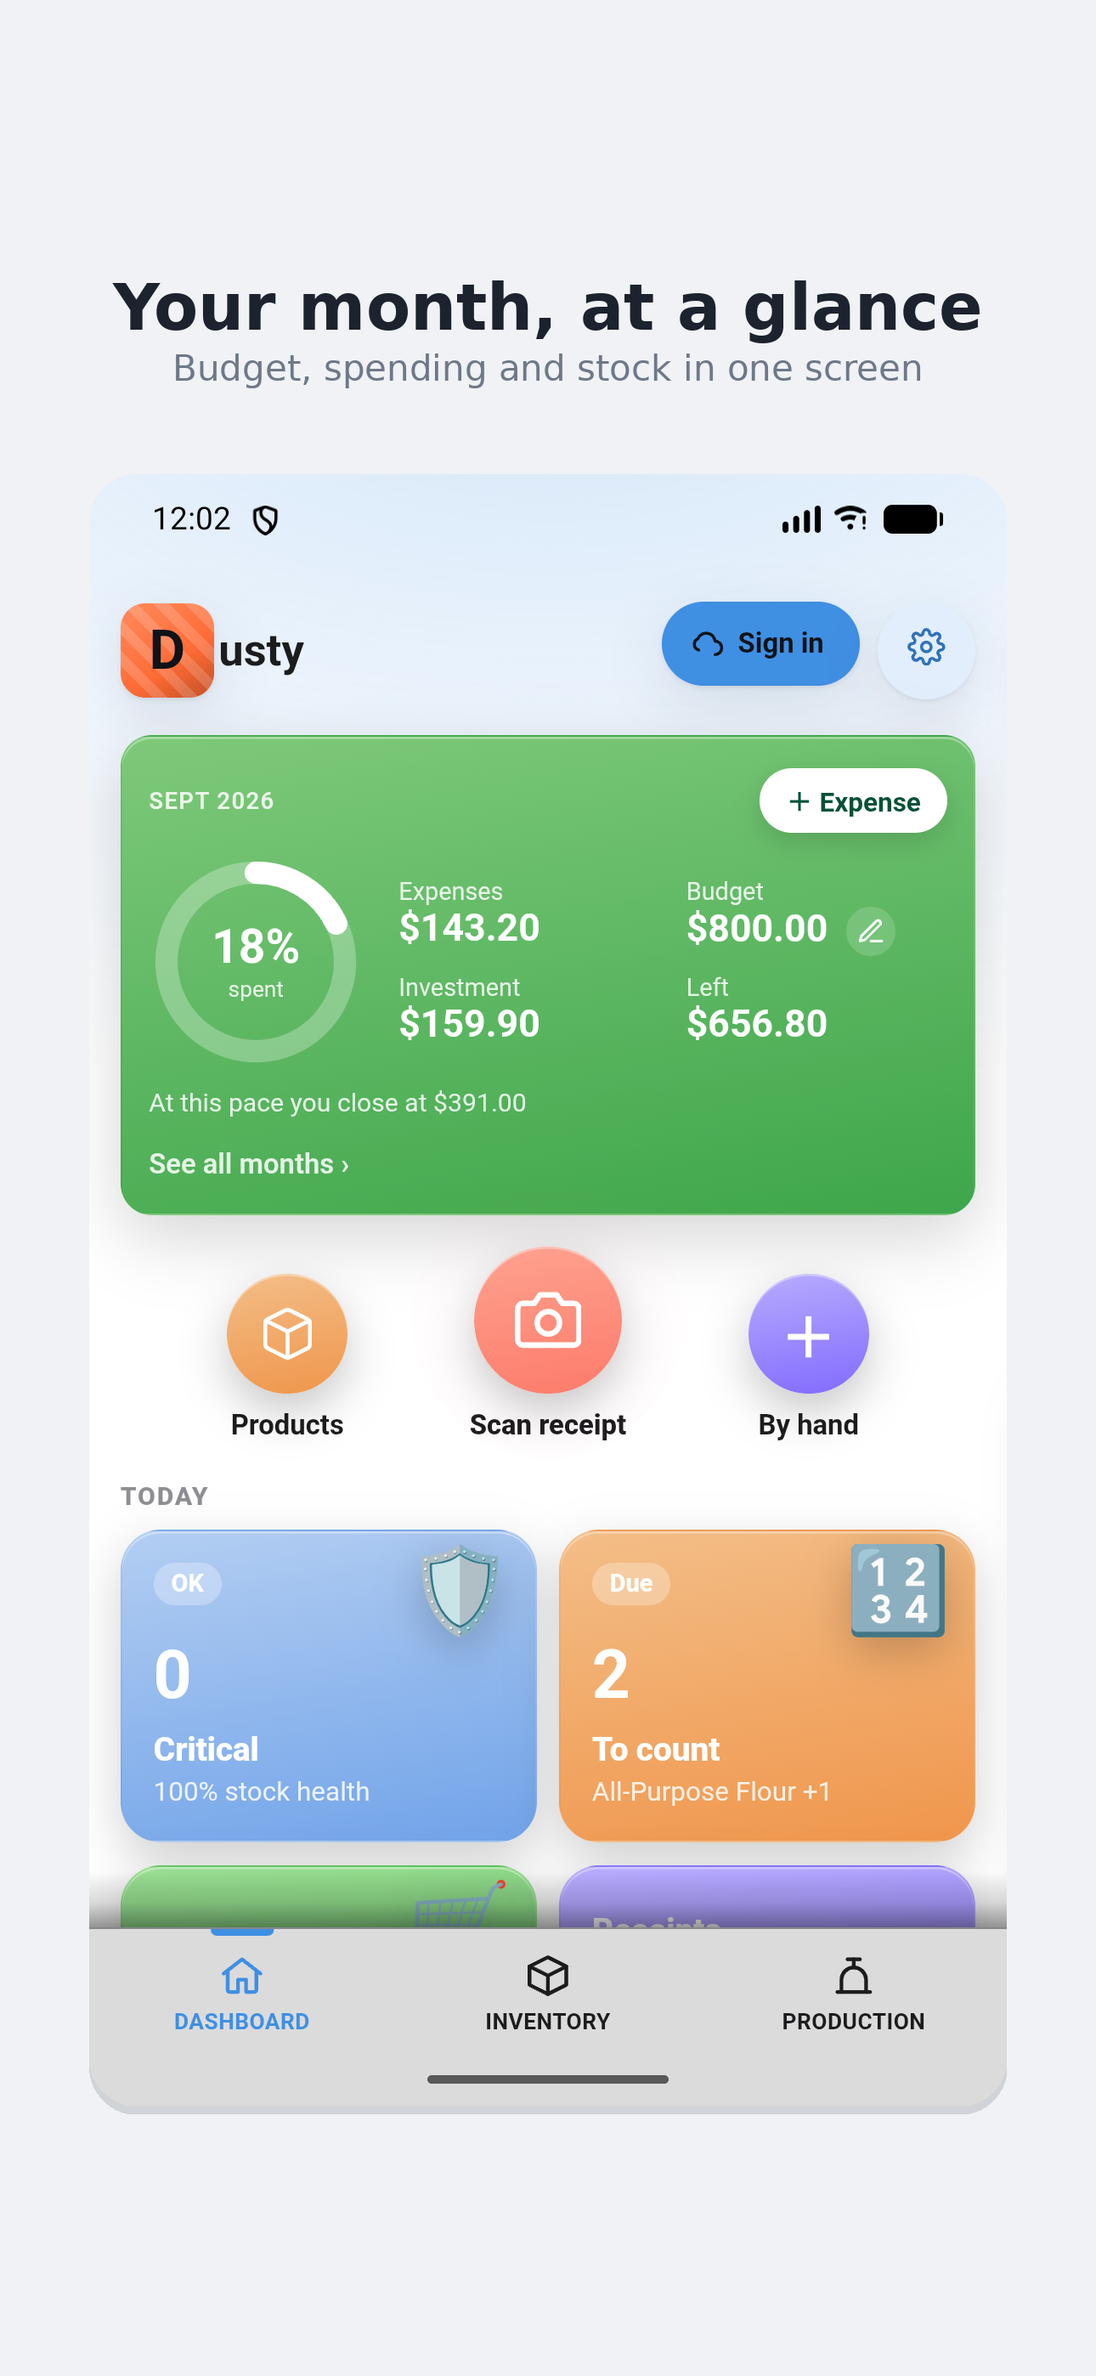
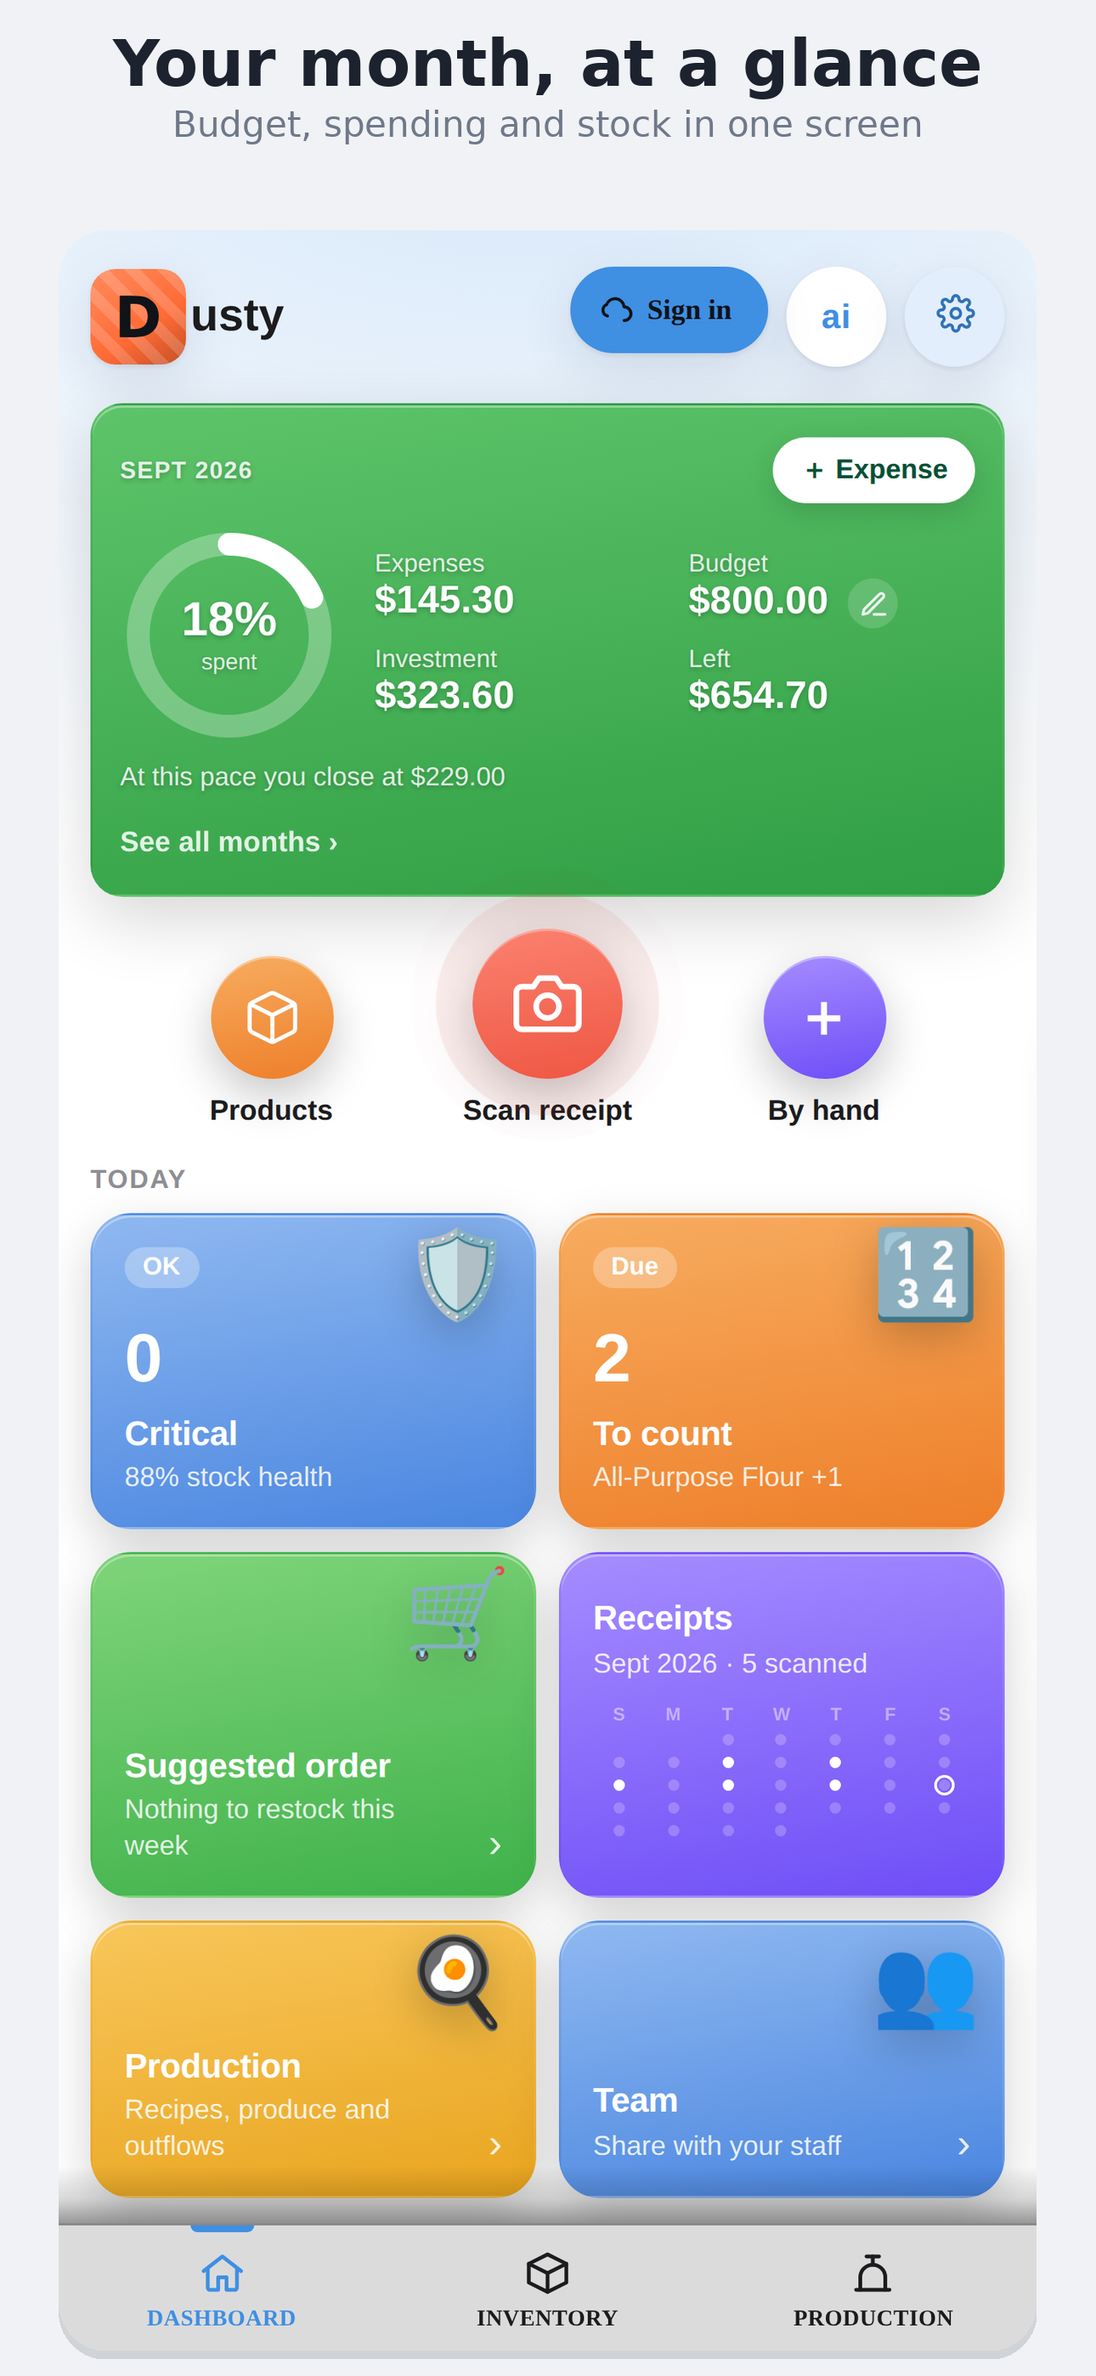
Capturas de App Store renderizadas a resolución nativa
Las anteriores partían de las capturas de Play, que son de 1080px de ancho: aun
sin agrandarlas ocupaban 1080 de los 1290 del lienzo y mostraban datos de otra
época del producto. Ahora se renderiza la app de verdad.

`scripts/capture-ios-screenshots.js` abre Dusty en Chromium con el tamaño lógico
de un iPhone Pro Max (430x932) a densidad 3x, que da exactamente 1290x2796 —
renderizados a esa resolución en vez de escalados hasta ella. Navega por la barra
de abajo usando data-tab, que es más estable que el texto de los botones (cambia
de idioma y va en mayúsculas por CSS).

Los datos son de una panadería inventada, inyectada en localStorage antes de que
la app arranque. Ajustarlos fue la mitad del trabajo y cada número está puesto
por una razón: el gasto del mes sale de los recibos y no de las compras
(spendSplitForMonth recorre receipts), así que sin recibos el dashboard mostraba
$0.00; los precios de venta en 0 dejaban un "Sale potential $0.00" arriba del
inventario; cuatro categorías de 1 y 3 productos dejaban huecos en la grilla de
dos columnas, y con dos de cuatro las filas cierran; y sin producciones
registradas el recap del mes decía "No outflows recorded in this period" justo
donde va el estado de resultados, que es lo más vendedor de esa pantalla.

Playwright queda fuera de package.json a propósito: pesa y solo sirve para esto.

Claude-Session: https://claude.ai/code/session_01QHYvS7ErrmfPLF5JLpFZV7

diff --git a/scripts/capture-ios-screenshots.js b/scripts/capture-ios-screenshots.js
@@ -1,0 +1,202 @@
+/* Captura las pantallas de Dusty a resolución nativa de iPhone Pro Max.
+ *
+ * Por qué existe: las capturas de la ficha de Play son de 1080px de ancho, y
+ * Apple pide 1290x2796. Agrandarlas pierde nitidez, y sacarlas del simulador
+ * exige tener la Mac delante. Acá se abre la app de verdad en Chromium con el
+ * tamaño lógico de un iPhone Pro Max (430x932) a densidad 3x, que da exactamente
+ * 1290x2796 de píxeles reales — la misma medida que Apple quiere, renderizada
+ * a esa resolución en vez de escalada hasta ella.
+ *
+ * Los datos son de demostración y se inyectan en localStorage antes de que la
+ * app arranque: una ficha con el inventario vacío no vende nada, y usar datos
+ * reales de alguien en la App Store no corresponde.
+ *
+ * Uso:
+ *   npm run build                       (genera www/)
+ *   cd www && python3 -m http.server 8787 &
+ *   node scripts/capture-ios-screenshots.js
+ */
+const { chromium } = require('playwright');
+const path = require('path');
+const fs = require('fs');
+
+const URL_BASE = process.env.DUSTY_URL || 'http://localhost:8787/index.html';
+const DESTINO = 'store-screenshots/ios/raw';
+// Playwright trae su propio Chromium, pero en este entorno la versión instalada
+// no coincide con la que el paquete espera; con CHROMIUM_PATH se apunta a la que
+// sí está. Sin la variable se usa el Chromium que maneja Playwright.
+const CHROMIUM = process.env.CHROMIUM_PATH || undefined;
+
+const hoy = new Date();
+const iso = (d) => d.toISOString().slice(0, 10);
+const diasAtras = (n) => iso(new Date(hoy.getTime() - n * 86400000));
+
+const CAT = { horno: 'cat_baking', cocina: 'cat_kitchen' };
+
+const inventory = [
+  { id:'i1', name:'All-Purpose Flour', unit:'lb', costPerUnit:0.52, qtyOnHand:44, stockFullRef:50, salePrice:1.2, categoryId:CAT.horno,    supplier:'Sysco', sku:'FLR-50' },
+  { id:'i2', name:'Brown Sugar',       unit:'lb', costPerUnit:0.88, qtyOnHand:26, stockFullRef:30, salePrice:1.95, categoryId:CAT.horno,    supplier:'Sysco', sku:'SGR-30' },
+  { id:'i3', name:'Butter',            unit:'lb', costPerUnit:3.40, qtyOnHand:19, stockFullRef:24, salePrice:7.5, categoryId:CAT.horno,    supplier:'Dairy Co', sku:'BTR-24' },
+  { id:'i4', name:'Whole Milk',        unit:'gal',costPerUnit:3.95, qtyOnHand:9,  stockFullRef:12, salePrice:6.9, categoryId:CAT.cocina,   supplier:'Dairy Co', sku:'MLK-12' },
+  { id:'i5', name:'Chicken Breast',    unit:'lb', costPerUnit:2.85, qtyOnHand:40, stockFullRef:48, salePrice:6.4, categoryId:CAT.cocina,   supplier:'Restaurant Depot', sku:'CHK-48' },
+  { id:'i6', name:'Eggs',              unit:'unidad', costPerUnit:0.22, qtyOnHand:300, stockFullRef:360, salePrice:0.55, categoryId:CAT.horno,   supplier:'Dairy Co', sku:'EGG-360' },
+  { id:'i7', name:'Paper Towels 12pk', unit:'caja', costPerUnit:18.90, qtyOnHand:2, stockFullRef:8, salePrice:34.9, categoryId:CAT.cocina,   supplier:'Costco', sku:'PPR-12' },
+  { id:'i8', name:'Olive Oil',         unit:'gal',costPerUnit:22.50, qtyOnHand:5,  stockFullRef:6,  salePrice:44.0, categoryId:CAT.cocina,  supplier:'Sysco', sku:'OIL-6' },
+];
+
+// Un precio que subió: es lo que dispara el aviso de cambio de precio, o sea una
+// de las cosas que la ficha quiere mostrar funcionando.
+inventory[0].lastPriceChangePct = 6.2;
+inventory[0].prevCostPerUnit = 0.49;
+
+const purchases = [
+  { id:'p1', ingId:'i1', qty:50, unit:'lb',  totalPrice:26.00, supplier:'Sysco',             date:diasAtras(2) },
+  { id:'p2', ingId:'i5', qty:48, unit:'lb',  totalPrice:136.80,supplier:'Restaurant Depot',  date:diasAtras(4) },
+  { id:'p3', ingId:'i3', qty:24, unit:'lb',  totalPrice:81.60, supplier:'Dairy Co',          date:diasAtras(9) },
+  { id:'p4', ingId:'i6', qty:360,unit:'unidad', totalPrice:79.20, supplier:'Dairy Co',       date:diasAtras(11) },
+  { id:'p5', ingId:'i8', qty:6,  unit:'gal', totalPrice:135.00,supplier:'Sysco',             date:diasAtras(17) },
+];
+
+const linea = (ingId, rawName, qty, unit, totalPrice) => ({ ingId, rawName, qty, unit, totalPrice });
+
+const receipts = [
+  { id:'rc1', date:diasAtras(2),  supplier:'Sysco',            total:26.00,  itemCount:1, createdAt:diasAtras(2),
+    appliedItems:[ linea('i1','All-Purpose Flour',50,'lb',26.00) ] },
+  { id:'rc2', date:diasAtras(4),  supplier:'Restaurant Depot', total:136.80, itemCount:1, createdAt:diasAtras(4),
+    appliedItems:[ linea('i5','Chicken Breast',48,'lb',136.80) ] },
+  { id:'rc3', date:diasAtras(6),  supplier:'City Power',       total:145.30, itemCount:1, createdAt:diasAtras(6),
+    manual:true, manualKind:'expense', appliedItems:[] },
+  { id:'rc4', date:diasAtras(9),  supplier:'Dairy Co',         total:81.60,  itemCount:1, createdAt:diasAtras(9),
+    appliedItems:[ linea('i3','Butter',24,'lb',81.60) ] },
+  { id:'rc5', date:diasAtras(11), supplier:'Dairy Co',         total:79.20,  itemCount:1, createdAt:diasAtras(11),
+    appliedItems:[ linea('i6','Eggs',360,'unidad',79.20) ] },
+];
+
+const recipes = [
+  { id:'r1', name:'Croissant (dozen)', salePrice:42, components:[{ingId:'i1', qty:3},{ingId:'i3', qty:1.5},{ingId:'i6', qty:6}] },
+  { id:'r2', name:'Chicken Pot Pie',   salePrice:14, components:[{ingId:'i5', qty:0.6},{ingId:'i1', qty:0.4},{ingId:'i4', qty:0.2}] },
+  { id:'r3', name:'Banana Bread',      salePrice:9,  components:[{ingId:'i1', qty:1.2},{ingId:'i2', qty:0.5},{ingId:'i6', qty:2}] },
+  { id:'r4', name:'Butter Cookies (24)', salePrice:18, components:[{ingId:'i1', qty:2},{ingId:'i2', qty:0.8},{ingId:'i3', qty:1}] },
+];
+
+// Producciones ya registradas. Sin esto el recap del mes muestra "No outflows
+// recorded in this period" donde deberían ir las ganancias estimadas: el
+// apartado más vendedor de esa pantalla quedaba vacío. Cada corrida descuenta
+// insumos y deja precio y costo del momento, que es de donde salen las
+// estimaciones (ver periodSpendSplit en app-03).
+const outflows = [
+  { id:'o1', type:'production', recipeId:'r1', recipeName:'Croissant (dozen)', count:14,
+    items:[{ ingId:'i1', ingName:'All-Purpose Flour', qty:42, unit:'lb', costAt:0.52 },
+           { ingId:'i3', ingName:'Butter', qty:21, unit:'lb', costAt:3.40 },
+           { ingId:'i6', ingName:'Eggs', qty:84, unit:'unidad', costAt:0.22 }],
+    saleTotal:588, costTotal:112.32, date:diasAtras(3), createdAt:diasAtras(3) },
+  { id:'o2', type:'production', recipeId:'r3', recipeName:'Banana Bread', count:30,
+    items:[{ ingId:'i1', ingName:'All-Purpose Flour', qty:36, unit:'lb', costAt:0.52 },
+           { ingId:'i2', ingName:'Brown Sugar', qty:15, unit:'lb', costAt:0.88 },
+           { ingId:'i6', ingName:'Eggs', qty:60, unit:'unidad', costAt:0.22 }],
+    saleTotal:270, costTotal:45.12, date:diasAtras(6), createdAt:diasAtras(6) },
+  { id:'o3', type:'production', recipeId:'r4', recipeName:'Butter Cookies (24)', count:18,
+    items:[{ ingId:'i1', ingName:'All-Purpose Flour', qty:36, unit:'lb', costAt:0.52 },
+           { ingId:'i2', ingName:'Brown Sugar', qty:14.4, unit:'lb', costAt:0.88 },
+           { ingId:'i3', ingName:'Butter', qty:18, unit:'lb', costAt:3.40 }],
+    saleTotal:324, costTotal:92.59, date:diasAtras(10), createdAt:diasAtras(10) },
+];
+
+const ESTADO = {
+  inventory, purchases, recipes, receipts,
+  aliasMap: {}, priceAlertThreshold: 5,
+  cycleCountEnabled: true, cycleCountPct: 20, cycleCountIntervalDays: 7,
+  cycleCountLastDate: diasAtras(7), cycleCountCursor: 0,
+  deletedInventoryIds: [], deletedReceiptIds: [], deletedPurchaseIds: [],
+  businessName: 'Bluebird Bakery', monthlyBudget: 800, budgetMeta: {},
+  bizProfile: {}, profitsVisibleToMembers: true,
+  categories: [
+    { id:CAT.horno,  name:'Baking' },
+    { id:CAT.cocina, name:'Kitchen' },
+  ],
+  expenseCategories: [], calNotes: [], deletedCalNoteIds: [],
+  outflows, outflowArchive: {}, deletedRecipeIds: [],
+  deletedAssetIds: [], deletedMaintIds: [], deletedCatalogIds: [],
+  deletedClientIds: [], deletedMaintLogIds: [],
+};
+
+// La barra de abajo marca cada botón con data-tab (ver bottomNav en app-04), que
+// es más estable que el texto: la etiqueta cambia de idioma y va en mayúsculas
+// por CSS, así que buscarla por texto falla de maneras poco obvias. Los dos
+// últimos lugares de la barra son configurables (inventario/equipo y
+// producción/recibos), así que se captura lo que de verdad esté puesto.
+const PANTALLAS = [
+  { archivo: 'dashboard',  tab: 'dashboard' },
+  { archivo: 'inventory',  tab: 'inventario', desplazar: 210 },
+  { archivo: 'production', tab: 'produccion' },
+  { archivo: 'receipts',   tab: 'recibos' },
+];
+
+(async () => {
+  fs.mkdirSync(DESTINO, { recursive: true });
+  const browser = await chromium.launch(CHROMIUM ? { executablePath: CHROMIUM } : {});
+  const ctx = await browser.newContext({
+    viewport: { width: 430, height: 932 },   // tamaño lógico de un iPhone Pro Max
+    deviceScaleFactor: 3,                     // 430*3 x 932*3 = 1290x2796
+    isMobile: true, hasTouch: true, locale: 'en-US',
+  });
+  const page = await ctx.newPage();
+
+  await page.addInitScript((estado) => {
+    localStorage.setItem('patron_lang', 'en');
+    localStorage.setItem('patron_onboarded', '1');
+    localStorage.setItem('patron_data_v1', JSON.stringify(estado));
+  }, ESTADO);
+
+  await page.goto(URL_BASE, { waitUntil: 'networkidle' });
+  await page.waitForTimeout(2500);
+
+  for (const { archivo, tab, desplazar } of PANTALLAS) {
+    const boton = page.locator(`.bottom-nav-item[data-tab="${tab}"]`);
+    if (await boton.count() === 0) {
+      console.log(`(sin pestaña "${tab}" en esta configuración — se saltea)`);
+      continue;
+    }
+    await boton.first().click();
+    await page.waitForTimeout(1200);
+    await page.evaluate(() => window.scrollTo({ top: 0 }));
+    await page.waitForTimeout(400);
+    if (desplazar) {
+      await page.evaluate((y) => window.scrollTo({ top: y }), desplazar);
+      await page.waitForTimeout(600);
+    }
+    const salida = path.join(DESTINO, archivo + '.png');
+    await page.screenshot({ path: salida });
+    console.log(salida);
+  }
+
+  // Resumen del mes: no está en la barra de abajo, se entra por el enlace de la
+  // tarjeta de presupuesto en el dashboard.
+  const dash = page.locator('.bottom-nav-item[data-tab="dashboard"]');
+  if (await dash.count()) {
+    await dash.first().click();
+    await page.waitForTimeout(1000);
+    const verMeses = page.locator('text=See all months').first();
+    if (await verMeses.count()) {
+      await verMeses.click();
+      await page.waitForTimeout(1500);
+      // "See all months" abre un diálogo sobre el dashboard en penumbra, que como
+      // captura de tienda se lee a medias. El recap del mes que hay detrás de ese
+      // botón es una pantalla entera y cuenta mejor la misma idea.
+      const recap = page.locator('text=See month recap').first();
+      if (await recap.count()) {
+        await recap.click();
+        await page.waitForTimeout(1800);
+        await page.evaluate(() => window.scrollTo({ top: 0 }));
+        await page.waitForTimeout(400);
+      }
+      const salida = path.join(DESTINO, 'reports.png');
+      await page.screenshot({ path: salida });
+      console.log(salida);
+    } else {
+      console.log('(no se encontró "See all months" — se saltea reportes)');
+    }
+  }
+
+  await browser.close();
+})();

diff --git a/scripts/build-ios-screenshots.py b/scripts/build-ios-screenshots.py
@@ -23,7 +23,7 @@ ANCHO, ALTO = 1290, 2796
 FONDO = (240, 242, 245)          # el mismo del splash nativo
 TINTA = (28, 34, 46)
 TINTA_SUAVE = (110, 120, 136)
-ORIGEN = 'store-screenshots/play'
+ORIGEN = 'store-screenshots/ios/raw'
 DESTINO = 'store-screenshots/ios'
 
 # Las frases van en inglés porque la UI de estas capturas está en inglés — una
@@ -31,11 +31,10 @@ DESTINO = 'store-screenshots/ios'
 # localización en español hay que sacar capturas con la app en español y volver
 # a correr esto con las frases traducidas.
 CAPTURAS = [
-    ('02-dashboard.png',            'Your month, at a glance',   'Budget, spending and stock in one screen'),
-    ('03-inventory.png',            'Stock that counts itself',  'Every receipt updates what you have'),
-    ('04-month-recap-reports.png',  'Know before it hurts',      'Price jumps and overspending, flagged early'),
-    ('05-production.png',           'From ingredients to plates','Recipes discount stock as you produce'),
-    ('01-welcome.png',              'Set up in seconds',         'No spreadsheets, no manual typing'),
+    ('dashboard.png',  'Your month, at a glance',  'Budget, spending and stock in one screen'),
+    ('inventory.png',  'Stock that counts itself', 'Every receipt updates what you have'),
+    ('reports.png',    'Know if you made money',   'Revenue, costs and margin, worked out for you'),
+    ('production.png', 'Recipes that discount stock', 'Log a batch, ingredients come off by themselves'),
 ]
 
 def fuente(tam, negrita=False):
@@ -60,17 +59,18 @@ def armar(nombre_origen, titulo, bajada, salida):
     draw = ImageDraw.Draw(lienzo)
 
 
-    # NUNCA se agranda la captura. El lienzo tiene 1290 de ancho y el original
-    # 1080, así que entra tal cual: estirarlo al ancho disponible sería un 11% de
-    # agrandamiento y perder nitidez por nada, cuando lo que sobra es lienzo, no
-    # imagen. Solo se achica si alguna vez entra una captura más ancha que el
-    # lienzo (por ejemplo, sacada de un simulador Pro Max).
-    margen_minimo = 45
-    ancho_maximo = ANCHO - margen_minimo * 2
-    if captura.width > ancho_maximo:
-        escala = ancho_maximo / captura.width
+    # NUNCA se agranda la captura: agrandar inventa píxeles y se nota. Las de
+    # capture-ios-screenshots.js ya vienen a 1290x2796, o sea el lienzo entero, así
+    # que hay que achicarlas para que entre el texto — achicar sí es seguro, cada
+    # píxel del resultado sale de varios del original. Una captura más chica que el
+    # ancho disponible se deja como está.
+    ALTO_TEXTO = 92 + 54 + 95
+    ancho_maximo = ANCHO - 45 * 2
+    alto_maximo = ALTO - ALTO_TEXTO - 60
+    escala = min(ancho_maximo / captura.width, alto_maximo / captura.height, 1.0)
+    if escala < 1.0:
         captura = captura.resize(
-            (ancho_maximo, int(captura.height * escala)), Image.LANCZOS)
+            (int(captura.width * escala), int(captura.height * escala)), Image.LANCZOS)
     ancho_captura, alto_captura = captura.size
     margen = (ANCHO - ancho_captura) // 2
     captura = esquinas_redondeadas(captura, 56)
@@ -103,6 +103,6 @@ for i, (archivo, titulo, bajada) in enumerate(CAPTURAS, start=1):
     if not os.path.exists(origen):
         print('falta %s — se saltea' % origen)
         continue
-    salida = os.path.join(DESTINO, '%02d-%s' % (i, archivo.split('-', 1)[-1]))
+    salida = os.path.join(DESTINO, '%02d-%s' % (i, archivo))
     medida = armar(archivo, titulo, bajada, salida)
     print('%s  %dx%d' % (salida, medida[0], medida[1]))

diff --git a/PUBLICAR-DUSTY.md b/PUBLICAR-DUSTY.md
@@ -401,7 +401,33 @@ solo se llega ahí si falla el PDF, y si devuelve `null` corta sin romper nada.
 Todo lo de arriba ya está. Esto es lo que falta para apretar "Submit for Review",
 en el orden en que hay que hacerlo — cada paso desbloquea al siguiente.
 
-**1. Capturas.** Se pueden sacar del simulador, no hace falta un iPhone real.
+**1. Capturas.** ✅ HECHO — están en `store-screenshots/ios/`, a 1290x2796.
+
+Se generan sin tocar la Mac. `scripts/capture-ios-screenshots.js` abre la app de
+verdad en Chromium con el tamaño lógico de un iPhone Pro Max (430x932) a densidad
+3x, que da exactamente los 1290x2796 que Apple pide — renderizados a esa
+resolución, no escalados hasta ella. Los datos son de una panadería inventada que
+se inyecta en localStorage antes de que la app arranque: un inventario vacío no
+vende nada, y poner datos reales de alguien en la App Store no corresponde.
+Después `scripts/build-ios-screenshots.py` les monta la frase de arriba.
+
+```
+npm install --no-save playwright          # solo la primera vez
+npm run build
+(cd www && python3 -m http.server 8787 &)
+node scripts/capture-ios-screenshots.js   # store-screenshots/ios/raw/
+python3 scripts/build-ios-screenshots.py  # store-screenshots/ios/
+```
+
+Playwright queda fuera de `package.json` a propósito: pesa bastante y solo hace
+falta para esto, así que no tiene por qué estar en el `npm install` de todos.
+
+Las capturas de `raw/` también son válidas tal cual para Apple (miden justo
+1290x2796): si en algún momento se prefiere la app a pantalla completa sin frase
+arriba, se suben esas y listo.
+
+**Alternativa, desde el simulador.** Si se quiere la captura con la barra de
+estado de iOS de verdad:
 En Xcode elegir un modelo **Pro Max** (Apple pide el tamaño de pantalla grande;
 un iPhone Pro a secas da una medida que App Store Connect rechaza) y correr la
 app. Conviene entrar con una cuenta real: una app vacía se ve mal en la ficha.
